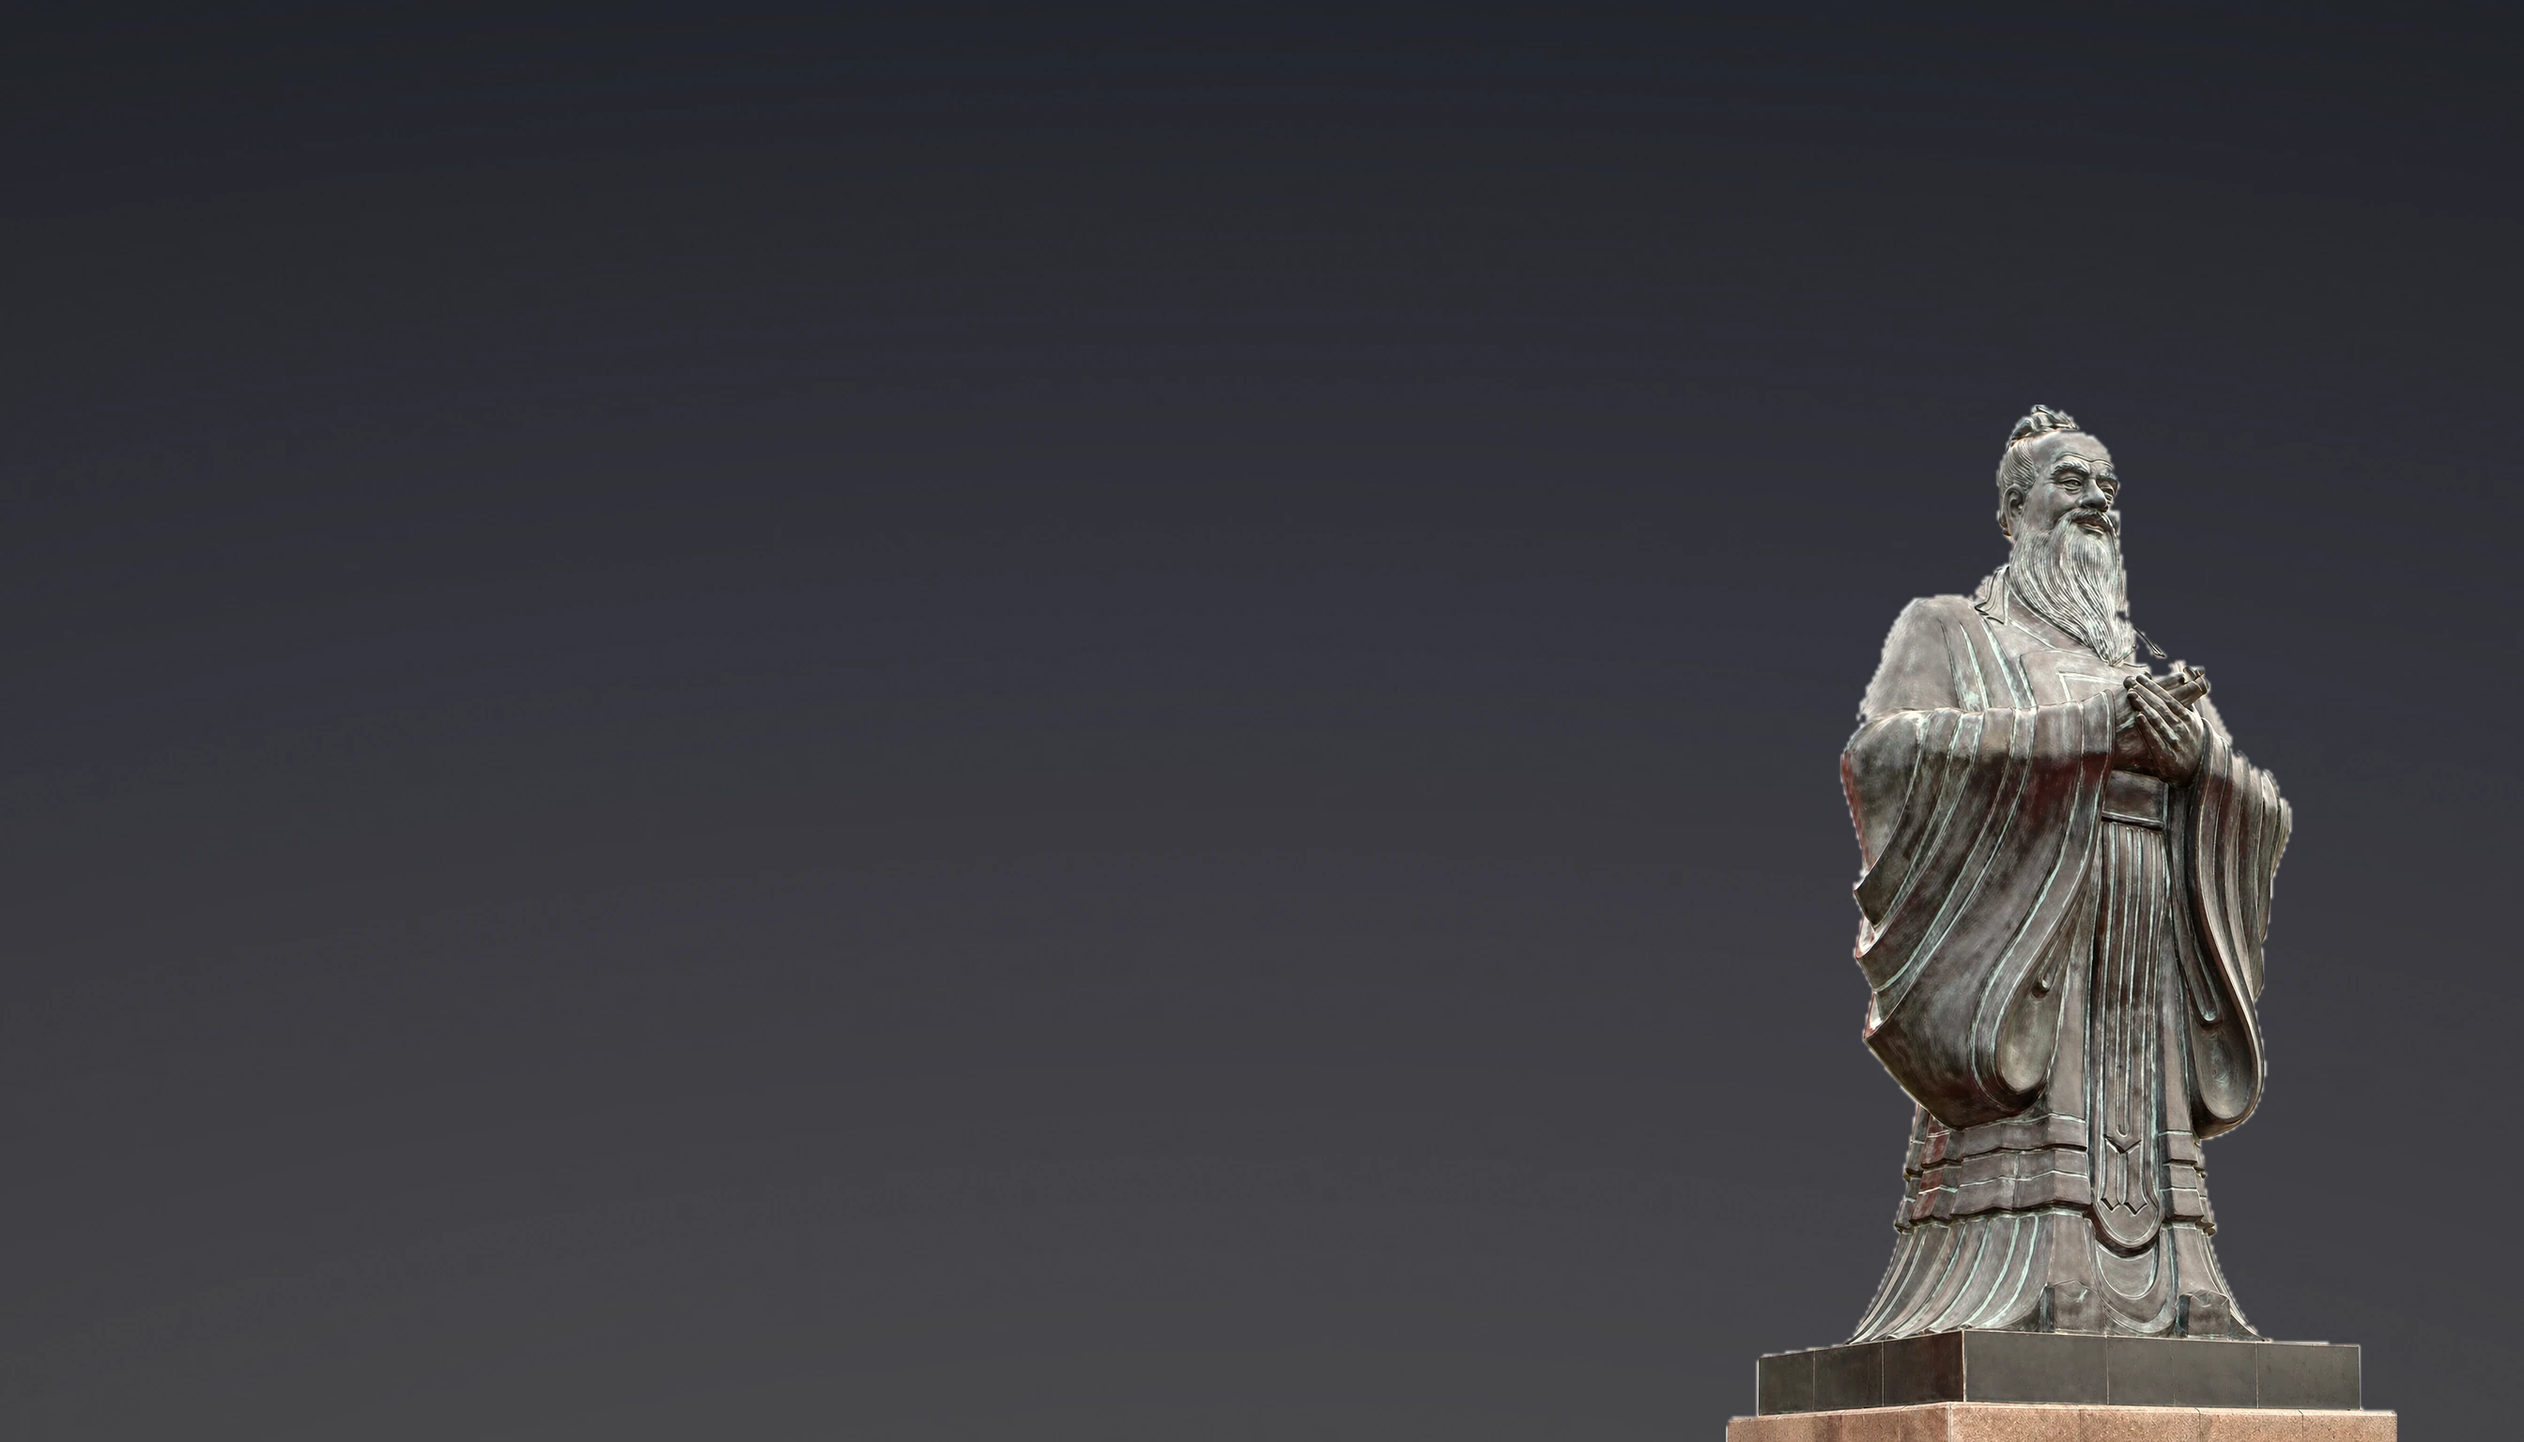
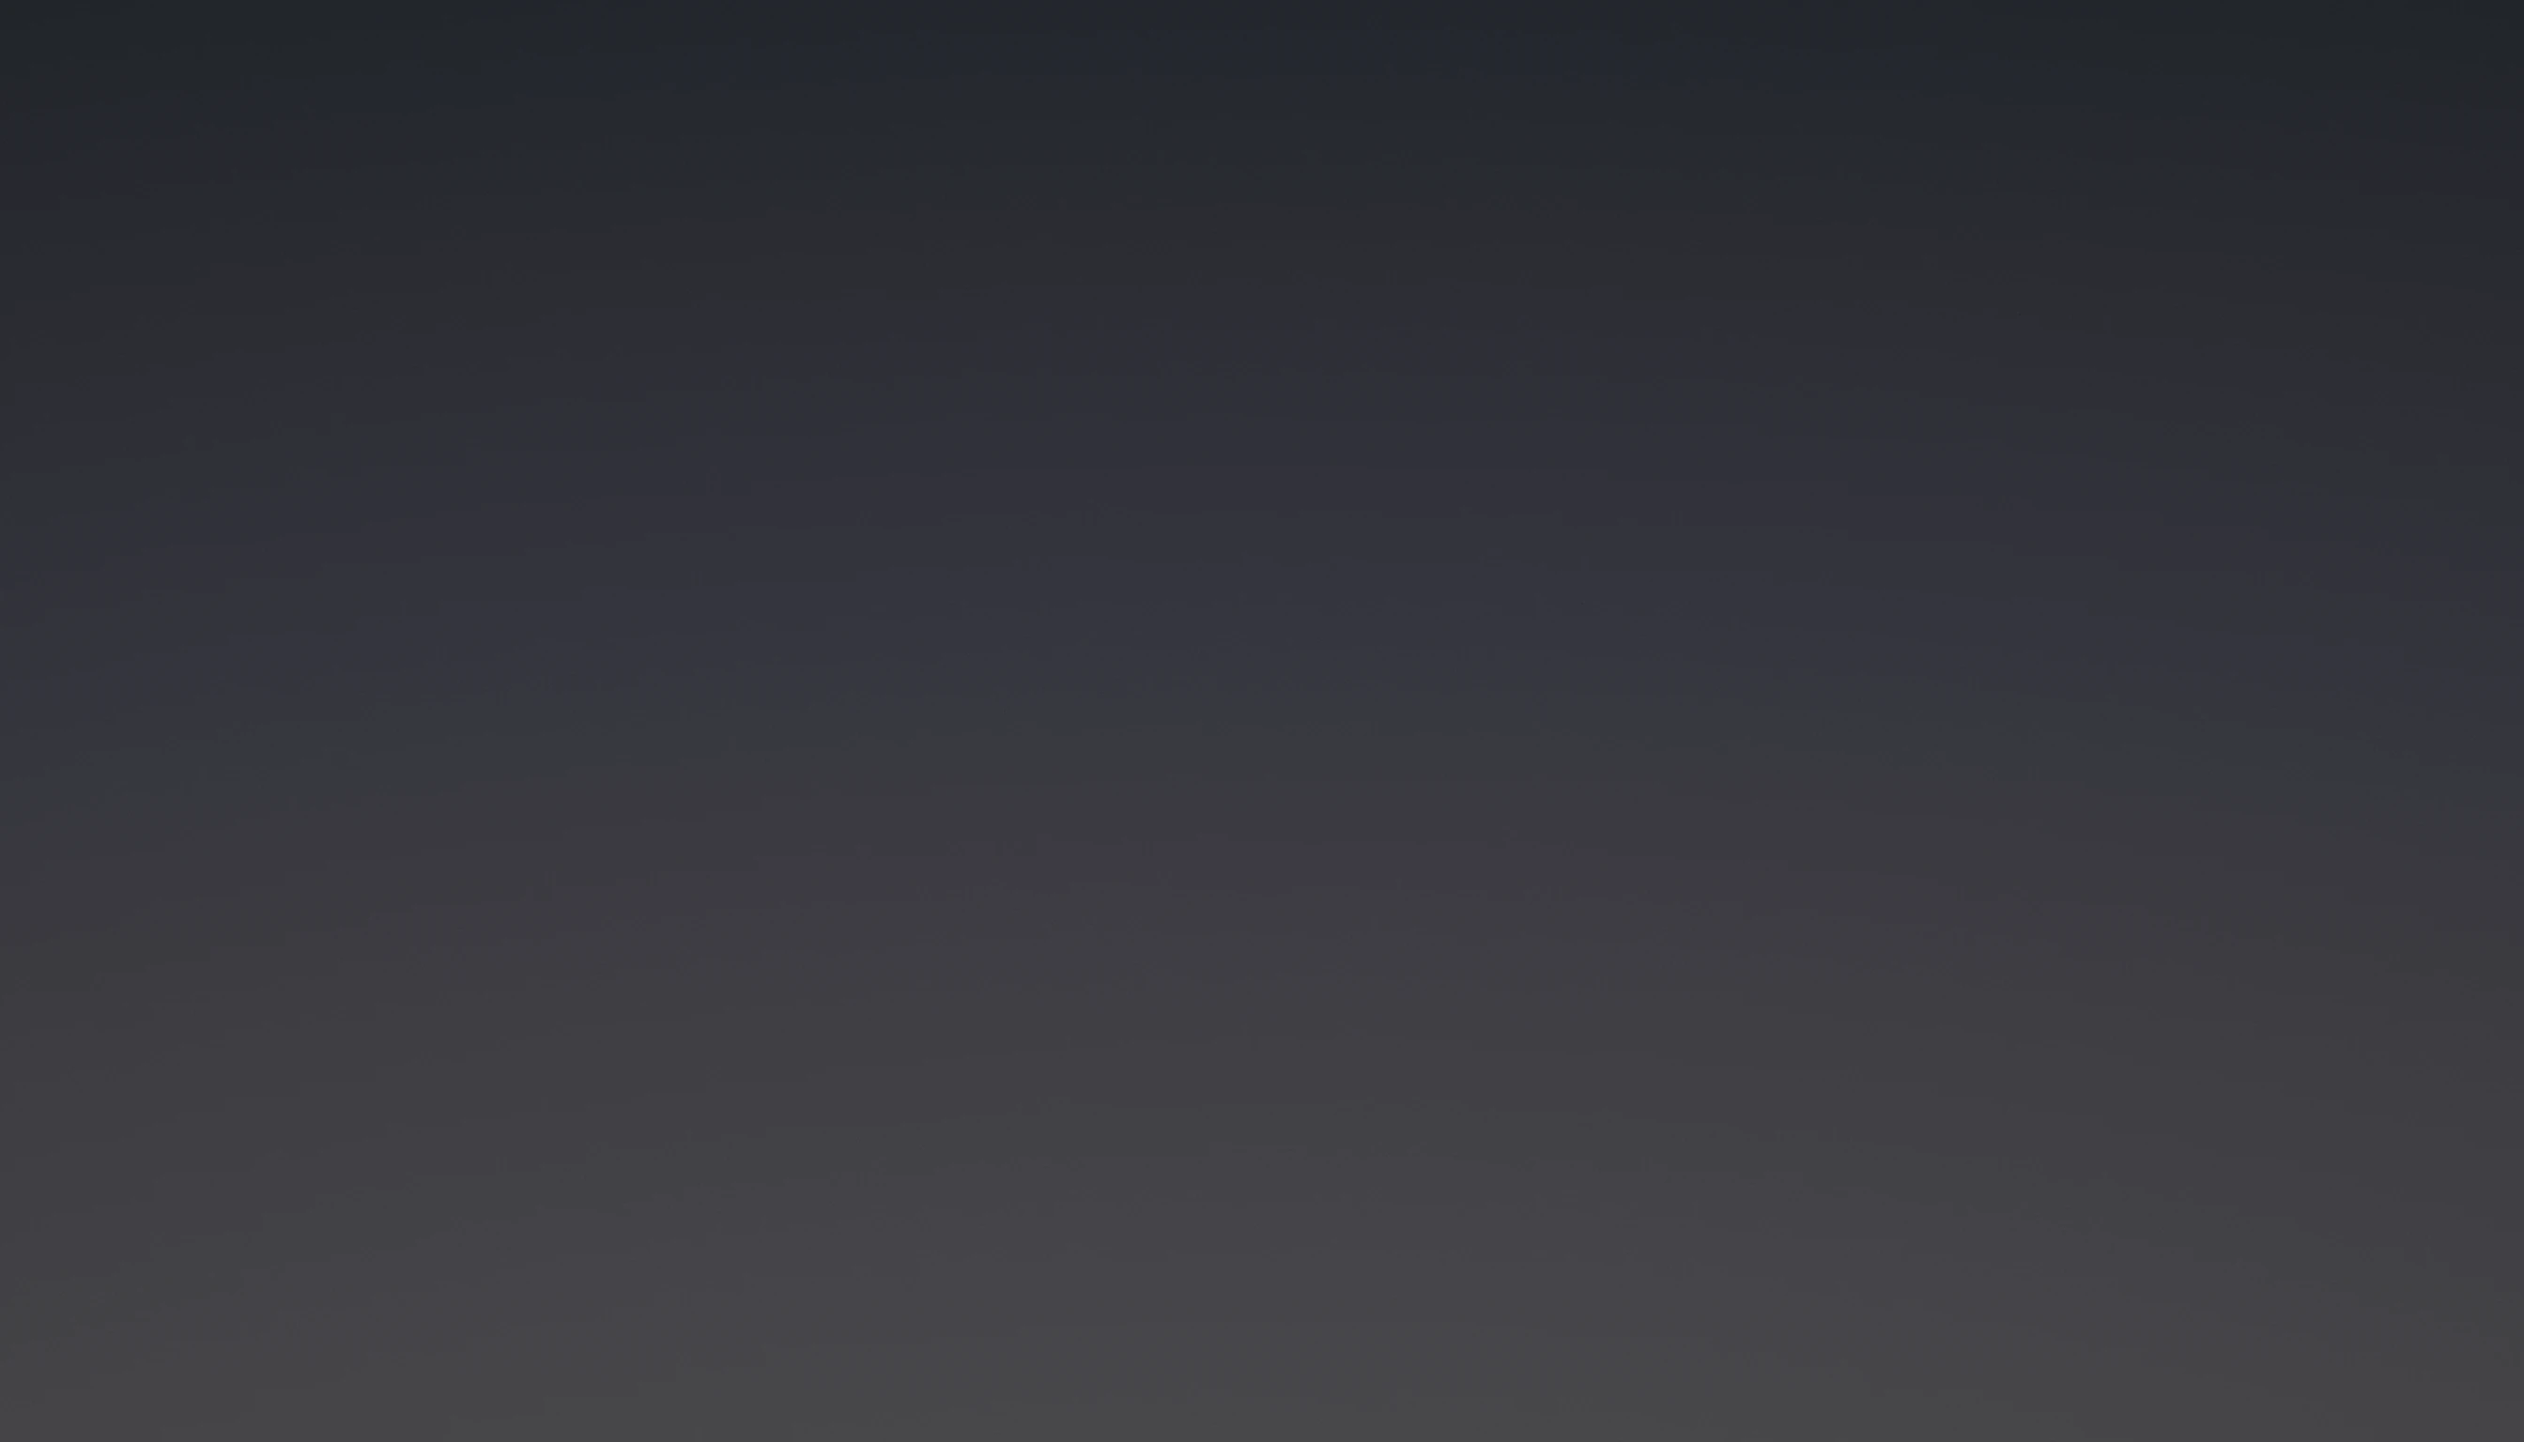
首页主视觉去掉雕像，改为纯氛围渐变底
按主人要求撤掉雕像主体，只保留底图氛围：
- 暗版：冷蓝灰竖向渐变 37/40/47 → 55/55/63 → 75/75/78 + 轻暗角 + 1.15σ 细颗粒
- 亮版：纸色渐变 #F4EFE4 → #FBF7EE → #F6F1E6（与 --bg 同族）
- 尺寸仍 2688×1536，体积 143 KB → 18 KB / 133 KB → 19 KB（首屏 LCP 显著下降）
- 缓存 ?v=5 → ?v=6

验证：tsc 0；dev 首页引用 ?v=6；直取 17,990 / 19,516 字节与文件一致。

Changed region(s): [[0.6875, 0.2812, 0.9688, 1.0]]

diff --git a/frontend/src/components/home/NightHero.tsx b/frontend/src/components/home/NightHero.tsx
@@ -46,7 +46,7 @@ export default function NightHero({
       {/* 双时辰底图：暗=破晓夜雾，明=天亮晨光；由 .dark 切换显示（见 globals.css）。
           v 参数随图迭代递增，击穿浏览器与优化器对同名 URL 的陈旧缓存。 */}
       <Image
-        src="/home/hero-dawn.webp?v=5"
+        src="/home/hero-dawn.webp?v=6"
         alt=""
         fill
         priority
@@ -54,7 +54,7 @@ export default function NightHero({
         className="nz-img nz-img-dark"
       />
       <Image
-        src="/home/hero-morning.webp?v=5"
+        src="/home/hero-morning.webp?v=6"
         alt=""
         fill
         sizes="100vw"
